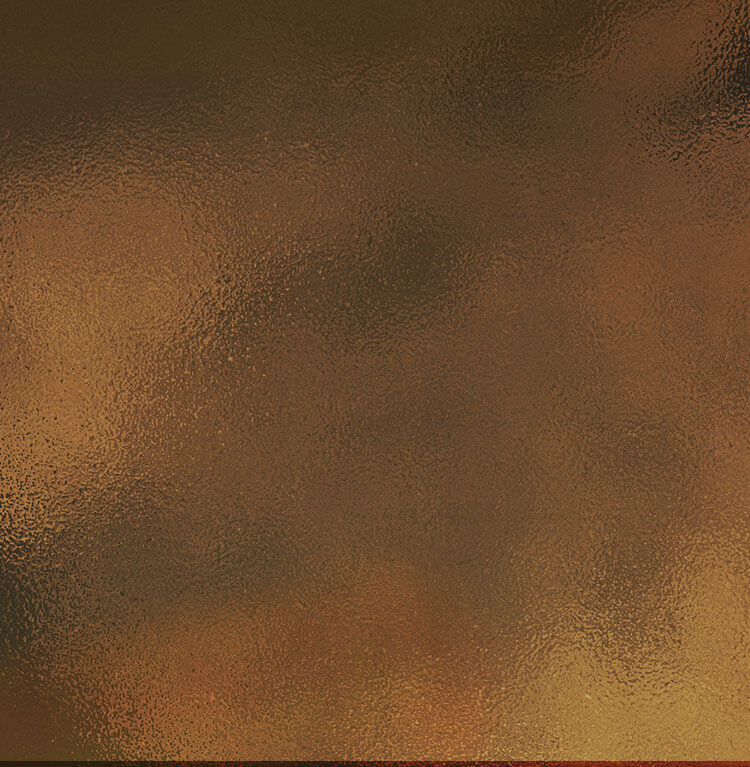
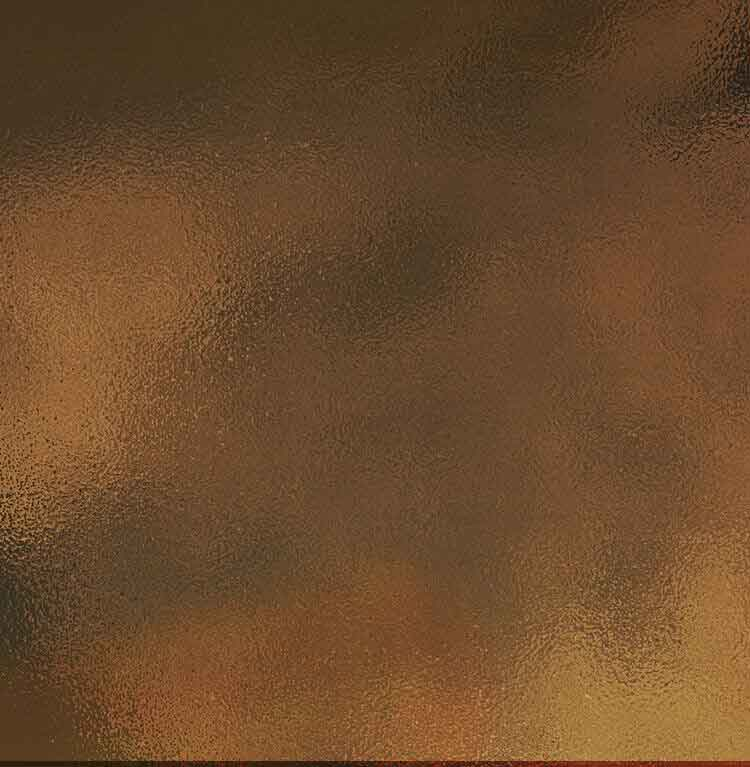
이미지 압축

diff --git a/README.md b/README.md
@@ -26,13 +26,14 @@ scrollmagic과 css3 animation 으로 구현했습니다.
 2번 방식 device-width
 주로 텍스트 비중이 높은 반응형 사이트에서 많이 활용합니다.
 장점: 1번방식의 단점이 발생하지 않으며, 화면 모든 요소를 비율확장 방식으로 제공할 수 있습니다.
-단점: 작업시간이 오래걸리고 코드가 복잡합니다.
+단점: 작업시간이 오래걸리고 코드가 복잡합니다.`
 
 
 ### 성능 최적화
 image 압축, css minified 처리
 scss 마지막 세미콜론 제거
-웹 진단 도구를 통한 성능 확인 (PageSpeed Insights 테스트 사이트에서 구동성능 97% 확인)
+웹 진단 도구 테스트
+- PageSpeed Insights <https://developers.google.com/speed/pagespeed/insights/?url=https%3A%2F%2Fwisterra.github.io%2Fkakaopay-project%2Fpage%2Fremittance%2Findex.html&tab=mobile> : 100%
 
 
 ### 파일 디렉토리 구조 고려
